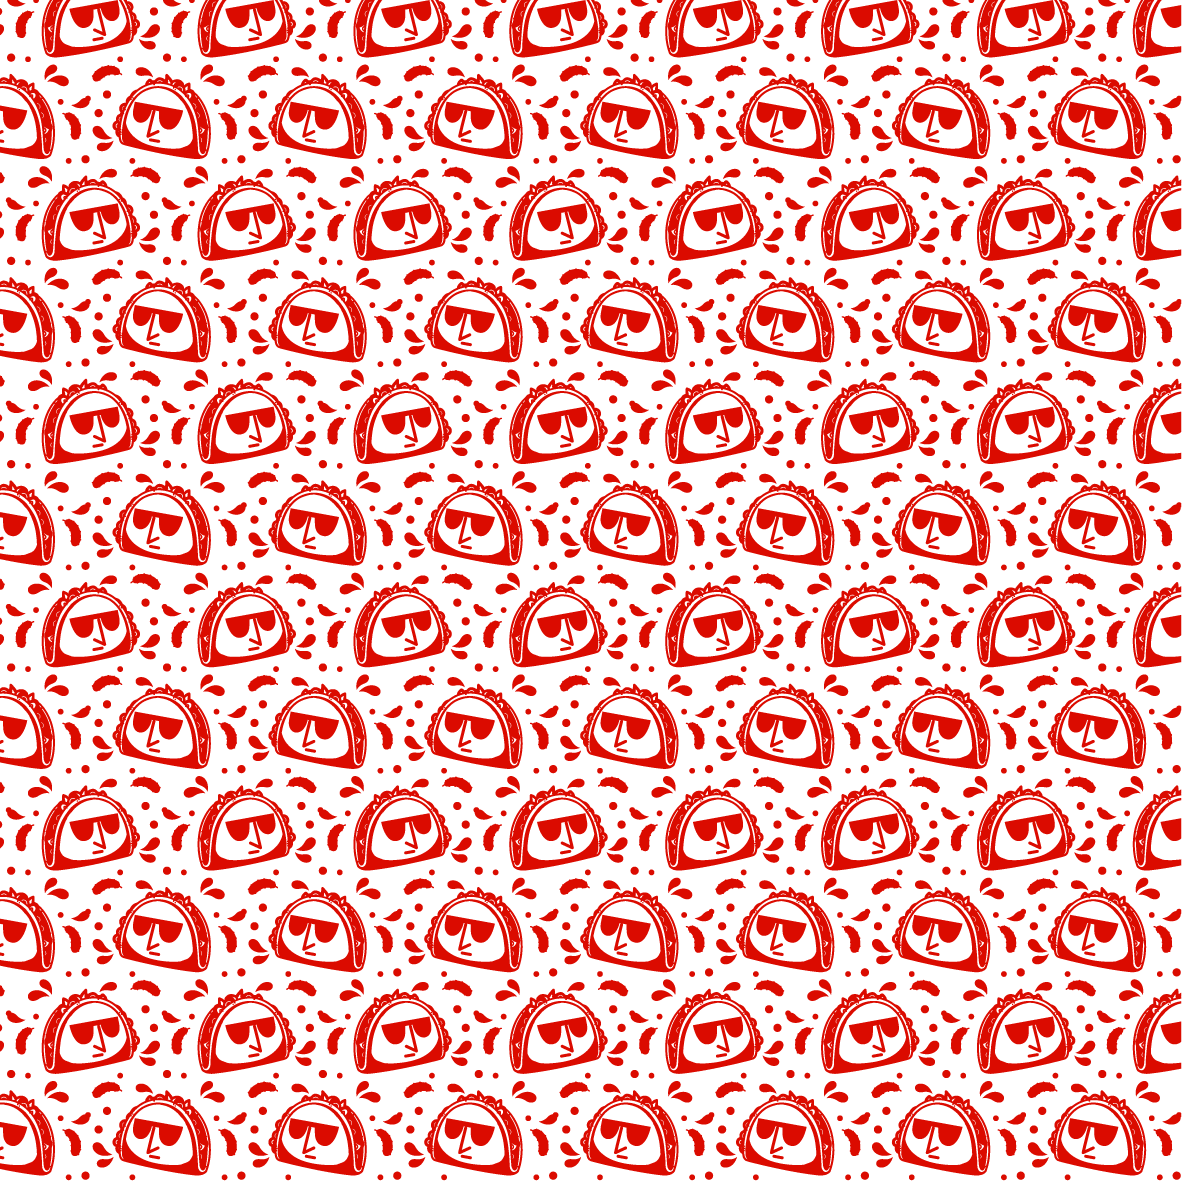
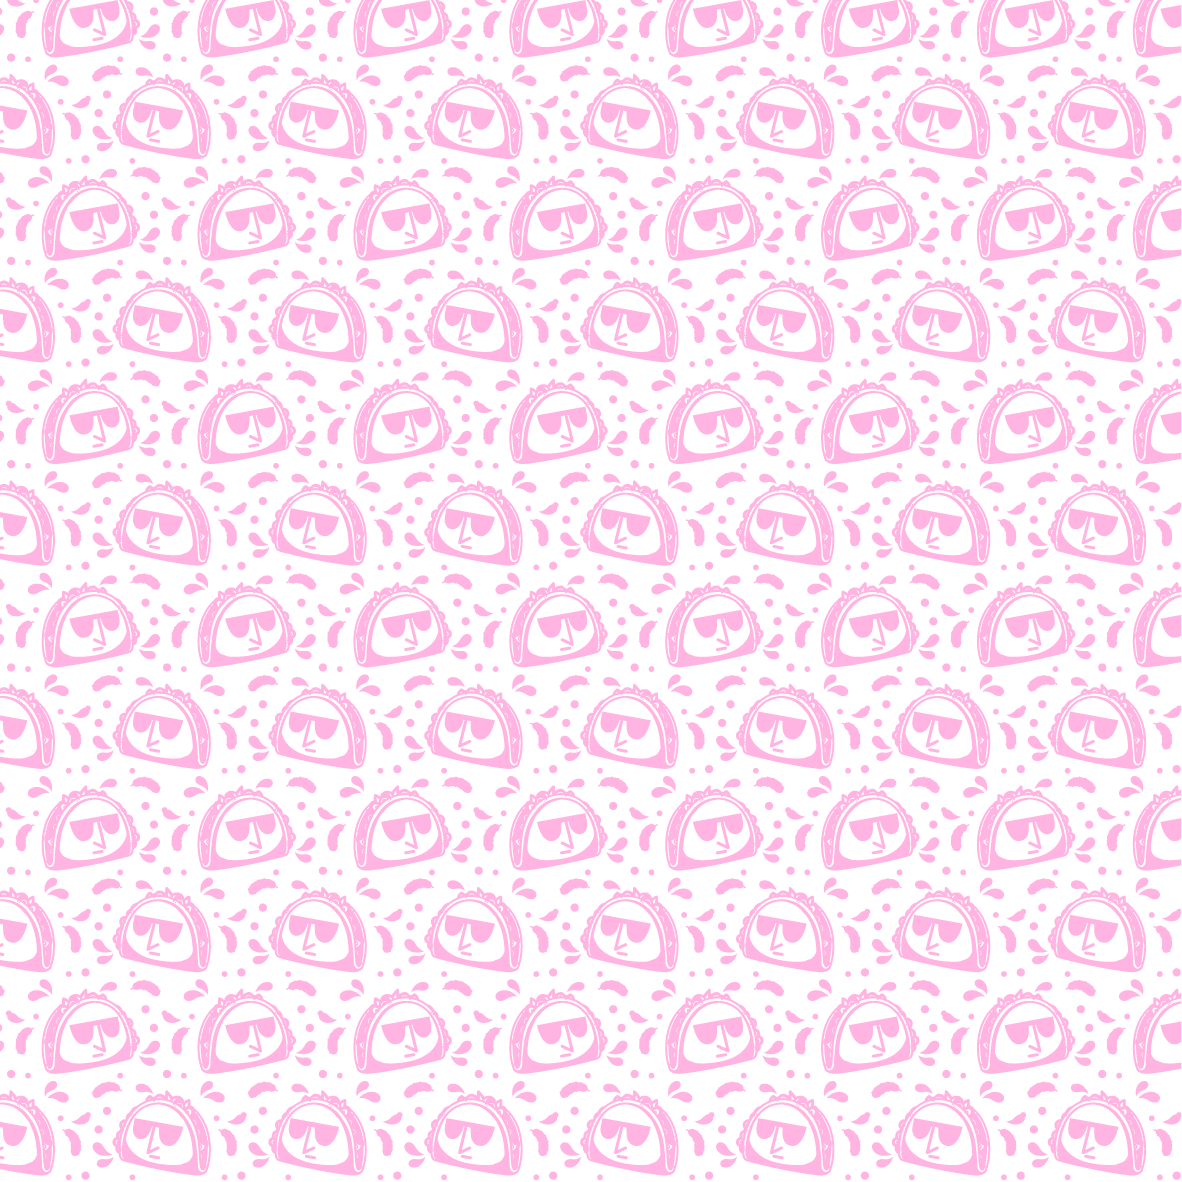
changed background color

diff --git a/src/components/BookingForm.js b/src/components/BookingForm.js
@@ -100,7 +100,7 @@ const BookingForm = () => {
 
   const customStyles = {
     pageBackground: {
-      backgroundColor: '#FFD9F0',
+      backgroundColor: '#DB0B00',
       backgroundImage: 'url(/images/Birria_Boss_pattern_TRANSPARENT-02.png)',
       backgroundRepeat: 'repeat',
       backgroundPosition: 'center',
